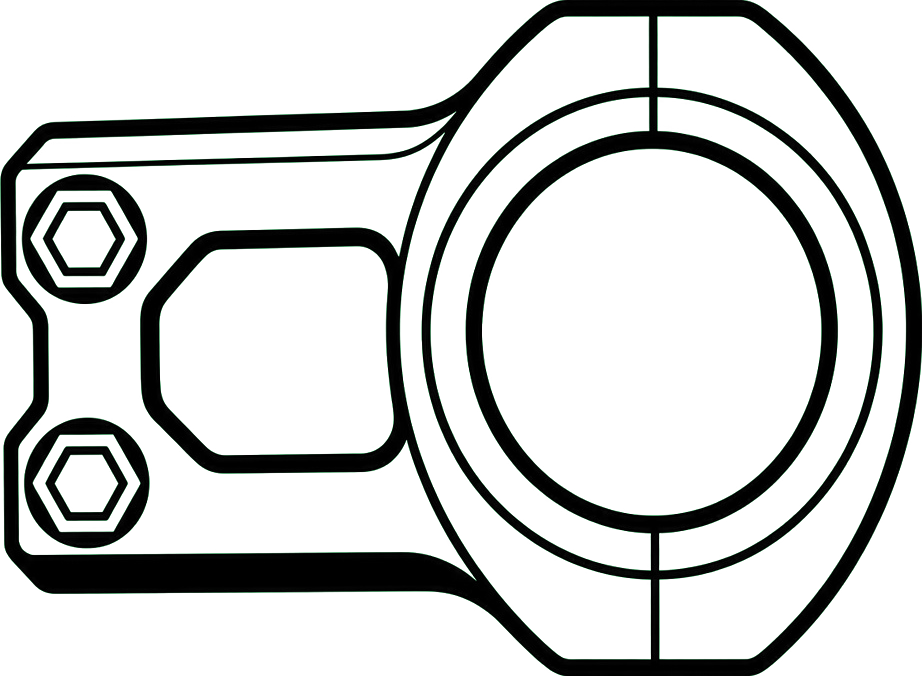
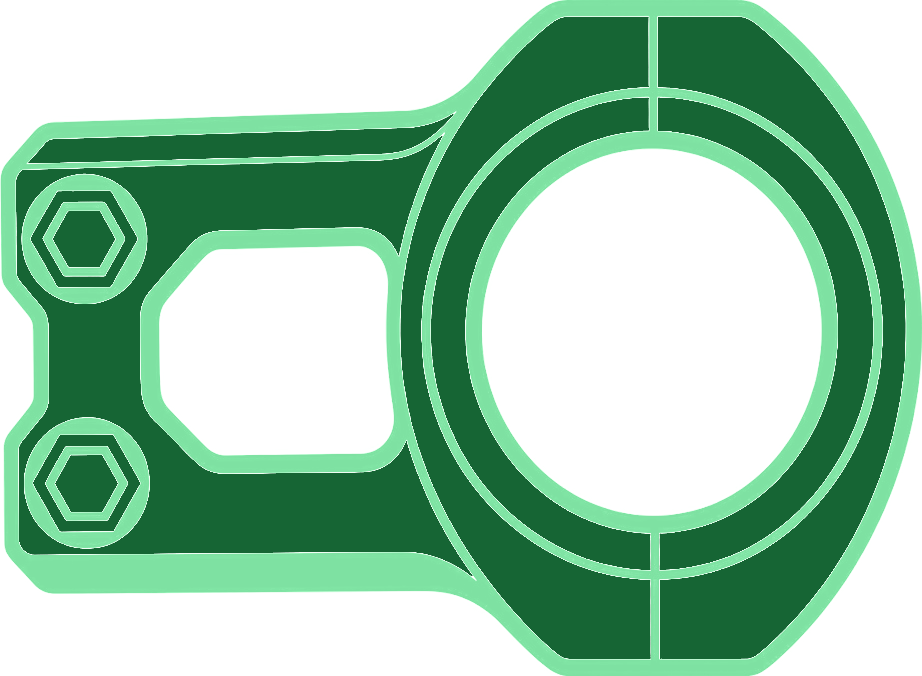
Pale green dark-theme controls, lighter wheels, filled stem
* Add canvas zoom controls and a shared dark green theme

Frame designer gets the stacked zoom, zoom-out, and fit controls on
the canvas and drops Reset View. The purple and orange themes are
removed; the green theme is now labelled Dark and stays the default.

Suspension designer widens both side rails by about 15 percent, floats
the overlay and parts toggles on the canvas beside config, and collapses
those plus config into an options menu on mobile. Light keeps the
previous look. Dark is the new default and redraws the bike, panels,
grid, and chart in the frame designer's green family.

* Collapse desktop suspension canvas toggles into an options menu.

Config stays a floating button on the bike canvas. Options sits beside it and opens the overlay and parts toggles with the same open, backdrop-close, and active-state behaviour as the mobile sheet. Mobile still keeps config inside that sheet.

* Tint the dark-theme slider, config, and zoom controls pale green.

The travel slider, config button, and fit stack now use the same light green as the pressed buttons. The dark-theme stem is a solid light-green fill of the same shape, and the wheel artwork is lightened so the tyres and rims separate from the canvas. Light theme is unchanged.

* Fill the dark-theme stem inside its outline.

The pale green strokes stay. The metal inside them is a darker green, and the faceplate opening and bar-clamp bore stay transparent.

---------

diff --git a/suspension-designer/index.html b/suspension-designer/index.html
@@ -164,6 +164,14 @@ body{margin:0;background:var(--paper);color:var(--ink);font:13px/1.45 var(--sans
    compete with initDrag()'s pointer and wheel handlers on the SVG itself. */
 #canvas-btns{position:absolute;top:10px;left:10px;z-index:9;display:flex;gap:4px;align-items:flex-start}
 #configOpen{background:#fffc;color:#16202a;backdrop-filter:blur(2px)}
+/* Dark only: these three controls were still the light-theme white/grey.
+   Pale green matches the pressed cycle/sag/static buttons and the light text. */
+[data-theme="dark"] #zoomctl button,
+[data-theme="dark"] #configOpen{
+  background:var(--anim);color:var(--on-accent);border-color:var(--shock)}
+[data-theme="dark"] #zoomctl button:hover,
+[data-theme="dark"] #configOpen:hover{
+  background:var(--ink);border-color:var(--ink)}
 #options-btn{background:var(--accent);border:none;color:#fff;
   font-family:var(--sans);font-size:10px;font-weight:700;
   padding:5px 12px;border-radius:11px;letter-spacing:.5px;cursor:pointer;
@@ -320,6 +328,23 @@ button[aria-pressed=true]{background:var(--rear);border-color:var(--rear);color:
    the pressed-state recolour) rather than getting their own. */
 .iconbtn{width:22px;height:22px;padding:0;font-size:12px;line-height:1;flex:none}
 input[type=range]{width:220px;accent-color:var(--rear)}
+/* Dark travel slider: a pale green track and thumb, same family as the
+   buttons above. The sag tick switches to the dark green text colour so it
+   still shows on that track. Light keeps the native grey slider. */
+[data-theme="dark"] #poswrap input[type=range]{
+  -webkit-appearance:none;appearance:none;height:18px;background:transparent;
+  accent-color:var(--anim)}
+[data-theme="dark"] #poswrap input[type=range]::-webkit-slider-runnable-track{
+  height:6px;background:var(--anim);border:none;border-radius:999px}
+[data-theme="dark"] #poswrap input[type=range]::-webkit-slider-thumb{
+  -webkit-appearance:none;width:16px;height:16px;margin-top:-5px;border-radius:50%;
+  background:var(--ink);border:2px solid var(--on-accent)}
+[data-theme="dark"] #poswrap input[type=range]::-moz-range-track{
+  height:6px;background:var(--anim);border:none;border-radius:999px}
+[data-theme="dark"] #poswrap input[type=range]::-moz-range-thumb{
+  width:16px;height:16px;border-radius:50%;background:var(--ink);
+  border:2px solid var(--on-accent)}
+[data-theme="dark"] #sagmark{background:var(--on-accent)}
 /* A thin red tick over the slider's own track, at the sag % of its width —
    not exact against the track's own end-padding (a native range's usable
    track is inset by half the thumb's width at each end, which a plain
@@ -3337,8 +3362,8 @@ function applyArtTheme(){
   SHOCKART.resv.src=src('shock-reservoir.png');
   SHOCKART.spring.src=src('shock-spring.png');
   SHOCKART.body.src=src('shock-body.png');
-  STEMART.src=src('stem.png');
-  WHEELART.src=src('wheel.png');
+  STEMART.src=src('stem.png')+(dark?'?v=3':'');
+  WHEELART.src=src('wheel.png')+(dark?'?v=2':'');
   JOCKEYART.src=src('jockey-wheel.png');
   SADDLEART.src=src('saddle.png');
 }
